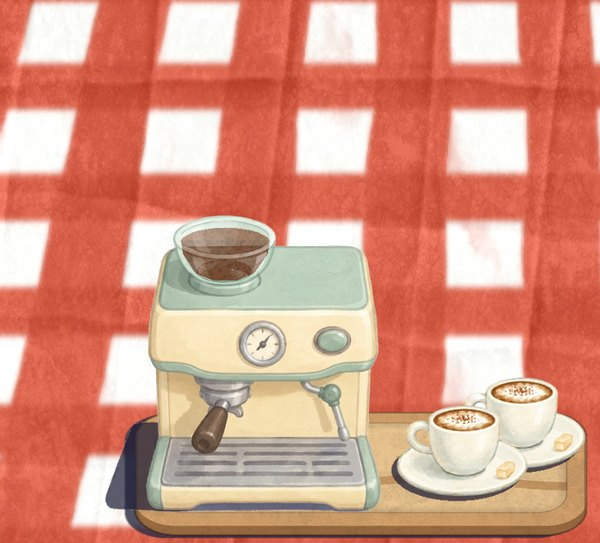
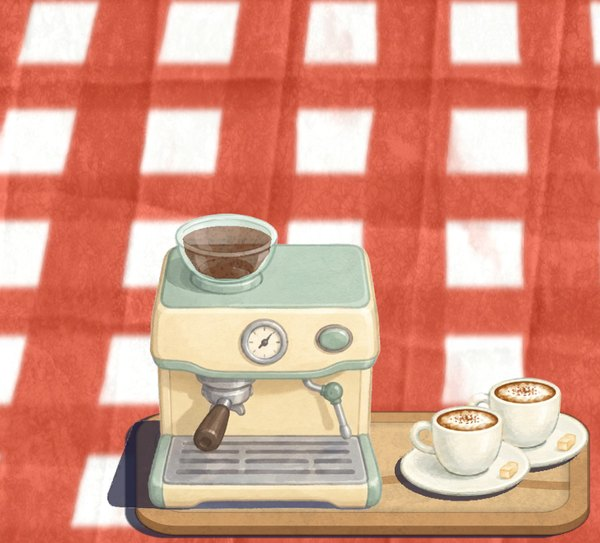
Report: Current cleaned to the open items; bottoms fixed with on-screen proof; girl shipped

Changed region(s): [[0.18, 0.3831, 0.99, 0.9724], [0.18, 0.825, 0.21, 0.884], [0.93, 0.9724, 0.96, 1.0]]

diff --git a/Docs/tools/report_page/index.html b/Docs/tools/report_page/index.html
@@ -78,8 +78,8 @@ h3 small{font-weight:600;color:var(--soft);font-size:13px;margin-left:6px}
 
 <h2 id="next"><span class="n">1</span>Next</h2>
 <div class="grid">
-<div class="who p1"><h3>You</h3><p>Tick the girl's fate under Current (use, retry the happy face, or keep). Say <span class="say">build</span> when you want build 23.</p></div>
-<div class="who p2"><h3>Me</h3><p>On your girl tick: cut and place her (same size and pivot as now), then the next customer. Two ChatGPT pictures left today. The star shop once Q1 is answered.</p></div>
+<div class="who p1"><h3>You</h3><p>Boy and Kid repaints arrive under Current for your pick. Say <span class="say">build</span> when you want build 23.</p></div>
+<div class="who p2"><h3>Me</h3><p>Boy and Kid from ChatGPT, then the Grandma, Businessman and Chef clean-ups. The star shop once Q1 is answered.</p></div>
 </div>
 
 <h2 id="qa"><span class="n">2</span>Q&amp;A</h2>
@@ -105,50 +105,28 @@ h3 small{font-weight:600;color:var(--soft);font-size:13px;margin-left:6px}
 <h2 id="current"><span class="n">3</span>Current</h2>
 
 <div class="card">
-<p style="margin-top:0"><b>Back row bottoms, whole screen, 10 November.</b> Measured from the sprite content now, not the image: the game reads each sprite's pixels and takes its lowest solid row (every one of these sprites has a soft shadow fringe fading out below the object, which the eye does not read as the bottom, so faint rows do not count). No spacing numbers typed by hand. The pink line is the flower pot's lowest painted row; each cyan post is that item's own. Truck, hen board, jar, both pots: on the line (the truck breathes a few pixels with its wobble).</p>
+<p style="margin-top:0"><b>Back row bottoms, 10 November.</b> You were right, twice. The fringe: each sprite fades out below the object (a soft shadow), and the first measure took the faintest row as the bottom; it now takes the first solid row. The offset: Unity trims a sprite's texture rectangle to its painted area, and the scan started at that trimmed edge instead of the sprite's own bottom, which put the pots and the jar 30 to 75 rows too high; fixed. Proof on screen, items against the bare cloth: truck, hen board, jar and both pots now end within three pixels of each other.</p>
 <figure><img src="back_row_full.jpg" alt="The whole table screen with the pink bottom line and a cyan post on each back-row item" style="max-height:620px"></figure>
+<figure><img src="back_row_zoom.jpg" alt="Each item at the line, five times enlarged"><figcaption>Each item at the line, five times enlarged.</figcaption></figure>
 <ul class="checks">
-<li><label><input type="checkbox" data-id="cur.rowfull.seen"> Seen, remove this</label></li>
+<li><label><input type="checkbox" data-id="cur.rowfix.seen"> Seen, remove this</label></li>
 </ul>
 </div>
 <div class="card">
-<p style="margin-top:0"><b>Shop tabs: part of the panel, 10 November.</b> Folder tabs: the three share the panel's full width with no gaps, the open one is taller and in the panel's colour so it is one shape with the panel, the closed ones sit lower and a shade darker behind. Panel and tabs are one object; the slide-in moves it whole. Left: mid-slide (slowed), right: in place.</p>
-<figure><img src="tabs_slide.jpg" alt="The shop panel group sliding in with its tabs attached" style="max-height:440px"></figure>
-<ul class="checks">
-<li><label><input type="checkbox" data-id="cur.tabsgroup.seen"> Seen, remove this</label></li>
-</ul>
-</div>
-<div class="card">
-<p style="margin-top:0"><b>Coffee machine, 10 November.</b> Your previous bean sprites, set inside the bowl: the bowl's glass front is laid over them so they sit between back and front. The pours the way your old frames did them: a thick straight dark bar from each spout straight down to the cup's bottom. All cups stay on the tray line; the steam wand is lengthened instead, so its tip reaches into the latte cup, in front of the cup, with the puff at the milk.</p>
-<figure><img src="machine_in_game.jpg" alt="The machine on the table in the tutorial with beans inside the bowl" style="max-height:300px"><figcaption>In the tutorial now.</figcaption></figure>
-<figure><img src="coffee_beans.jpg" alt="The bean container at fill levels 0 to 6" style="max-height:200px"><figcaption>Bean levels 0 to 6, your sprites.</figcaption></figure>
-<figure><img src="coffee_stream.jpg" alt="The four coffee frames and three wand frames, close up"><figcaption>The pours and the wand cup, close up.</figcaption></figure>
+<p style="margin-top:0"><b>Coffee machine, 10 November.</b> Your bean sprites, inside the bowl under its glass front. Pours as thick straight bars from each spout, ending in the middle of the cup's floor, on the cup's centre line, in all four pouring frames. Cups all on the tray line; the steam wand lengthened into the latte cup, in front of it, puff at the milk.</p>
+<figure><img src="machine_in_game.jpg" alt="The machine on the table in the tutorial" style="max-height:300px"><figcaption>In the tutorial now.</figcaption></figure>
+<figure><img src="coffee_stream.jpg" alt="The four coffee frames and two wand frames, close up"><figcaption>The pours and the wand, close up.</figcaption></figure>
 <figure><img src="coffee_frames.jpg" alt="All frames of the one-cup and two-cup brew clips in order"><figcaption>Every frame of both brew clips, in order.</figcaption></figure>
 <ul class="checks">
-<li><label><input type="checkbox" data-id="cur.coffee2.seen"> Seen, remove this</label></li>
+<li><label><input type="checkbox" data-id="cur.coffee3.seen"> Seen, remove this</label></li>
 </ul>
 </div>
 <div class="card">
-<p style="margin-top:0"><b>Customer sprites, review, 10 November.</b> All seven, both moods, below; the second sheet shows the faults close up. What I found and what I propose:</p>
-<ol class="plan">
-<li><b>Boy</b>, worst fit: a shiny 3D-render look unlike the painted others; hard cut edges on the hair; a cut line and flat toe on the shoes; his happy frame is a smaller canvas (228 x 546 against 241 x 600), so he shrinks when he smiles. Repaint both moods in the painted style.</li>
-<li><b>Girl</b>: a white dot left in the hair, ragged cut wisps, ink blotches on the plaid trousers. Repaint both moods, same design.</li>
-<li><b>Kid</b>: stair-stepped cut around the head, hard white blocks on the socks, and her happy frame is a different drawing and size (402 x 665). Repaint both moods to match.</li>
-<li><b>Grandma</b>: the glasses frame is cut on the right, white specks in the hair, a white pocket at the collar. Clean-up only, no repaint.</li>
-<li><b>Businessman</b>: a white pocket at the cuff, a white sliver at the shoulder, a hard hair edge. Clean-up only.</li>
-<li><b>Chef</b>: one grey smudge on the left sleeve. Clean-up only.</li>
-<li><b>Yoga</b>: fine as is.</li>
-</ol>
-<p>Your word: the girl first. ChatGPT's answer is below, next to the sprites as they are: clean hair edges, neat plaid, no stray pixels, same clothes and pose. One miss: the right-hand face reads as a pout with closed eyes, where your happy sprite smiles with closed eyes. Nothing is cut until you tick.</p>
-<figure><img src="girl_gpt.jpg" alt="The current girl sprites, neutral and happy, and ChatGPT's repaint of both" style="max-height:520px"><figcaption>Left two: now. Right: ChatGPT's repaint, neutral and happy.</figcaption></figure>
-<figure><img src="customers_sheet.jpg" alt="All seven customers, neutral and happy"><figcaption>The fourteen sprites as they are.</figcaption></figure>
-<figure><img src="customers_defects.jpg" alt="Close-ups of the faults on each customer"><figcaption>The faults, close up.</figcaption></figure>
+<p style="margin-top:0"><b>Customer sprites, 10 November.</b> Girl: shipped. ChatGPT's two figures are cut to the old sprites' size and place, with the soft ground halo the others have, and are in the game. Boy and Kid: their briefs are with ChatGPT now; the results come here for your pick. Grandma, Businessman and Chef: clean-ups (specks, white pockets, one smudge) still to do; Yoga stays.</p>
+<figure><img src="girl_gpt.jpg" alt="The old girl sprites and ChatGPT's repaint" style="max-height:420px"><figcaption>Girl: before (left two) and the repaint now in the game.</figcaption></figure>
+<figure><img src="customers_defects.jpg" alt="Close-ups of the faults on each customer" style="max-height:420px"><figcaption>The faults found, close up.</figcaption></figure>
 <ul class="checks">
-<li><label><input type="checkbox" data-id="cur.customers.seen"> Seen, remove this</label></li>
-<li><label><input type="checkbox" data-id="cur.girl.use"> Girl: cut ChatGPT's two figures into the game as they are</label></li>
-<li><label><input type="checkbox" data-id="cur.girl.retryhappy"> Girl: one more ChatGPT try for a smiling happy face, then cut</label></li>
-<li><label><input type="checkbox" data-id="cur.girl.keep"> Girl: keep the old sprites</label></li>
-<li><label><input type="checkbox" data-id="cur.customers.cleanups"> Also clean Grandma, Businessman and Chef myself meanwhile</label></li>
+<li><label><input type="checkbox" data-id="cur.customers2.seen"> Seen, remove this</label></li>
 </ul>
 </div>
 
